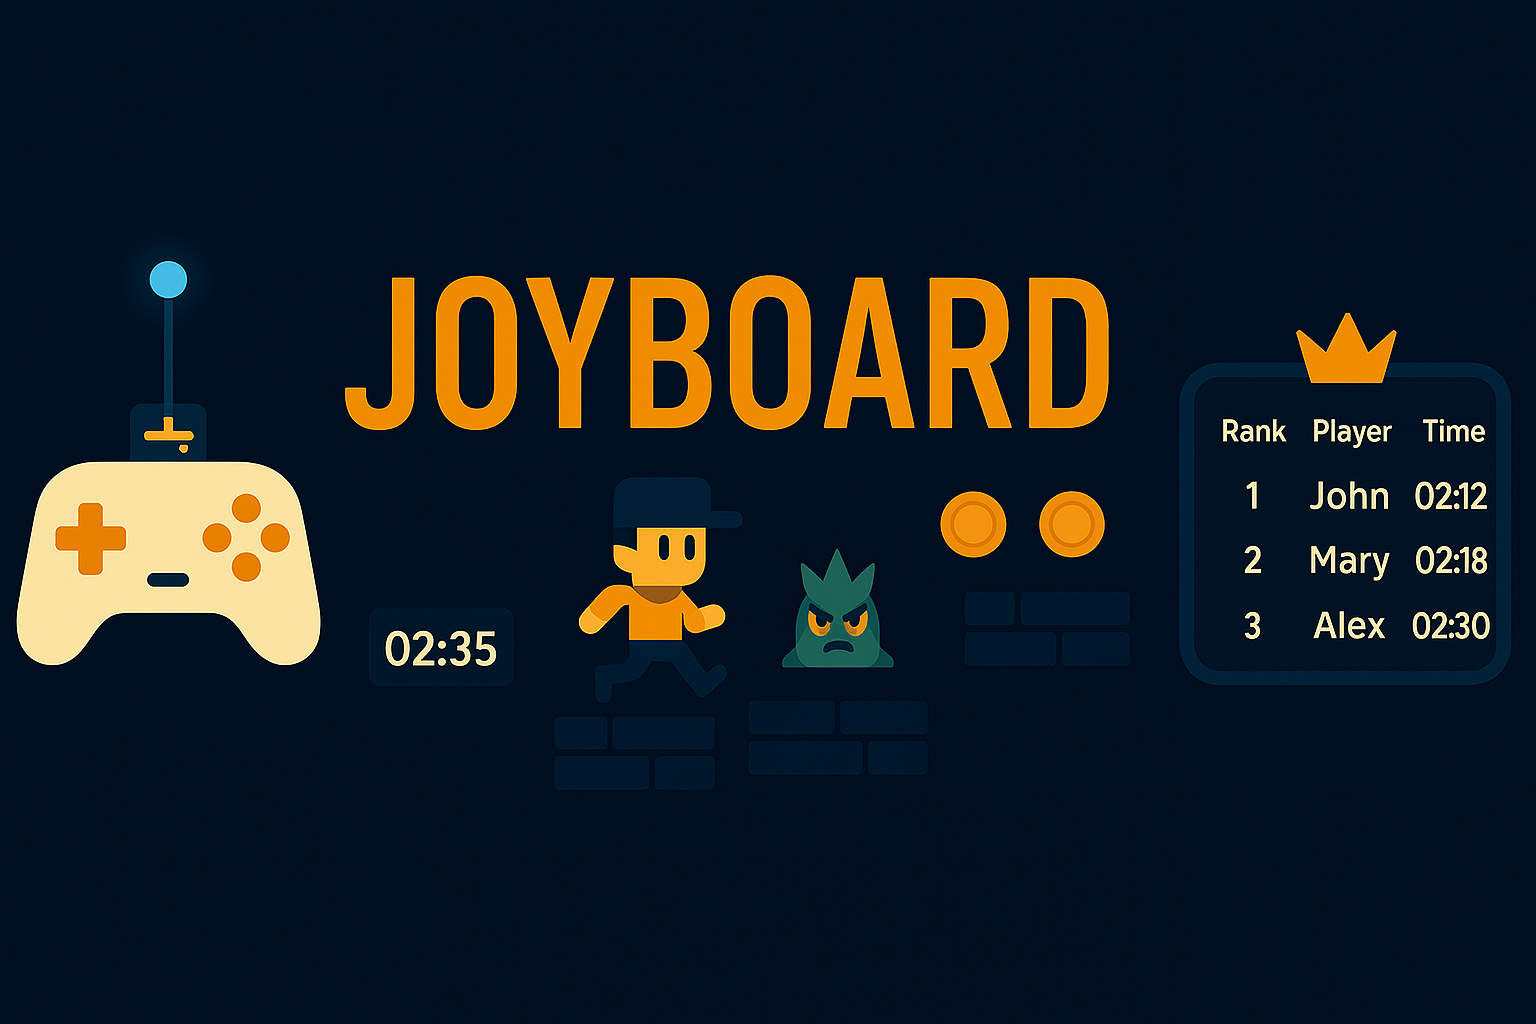
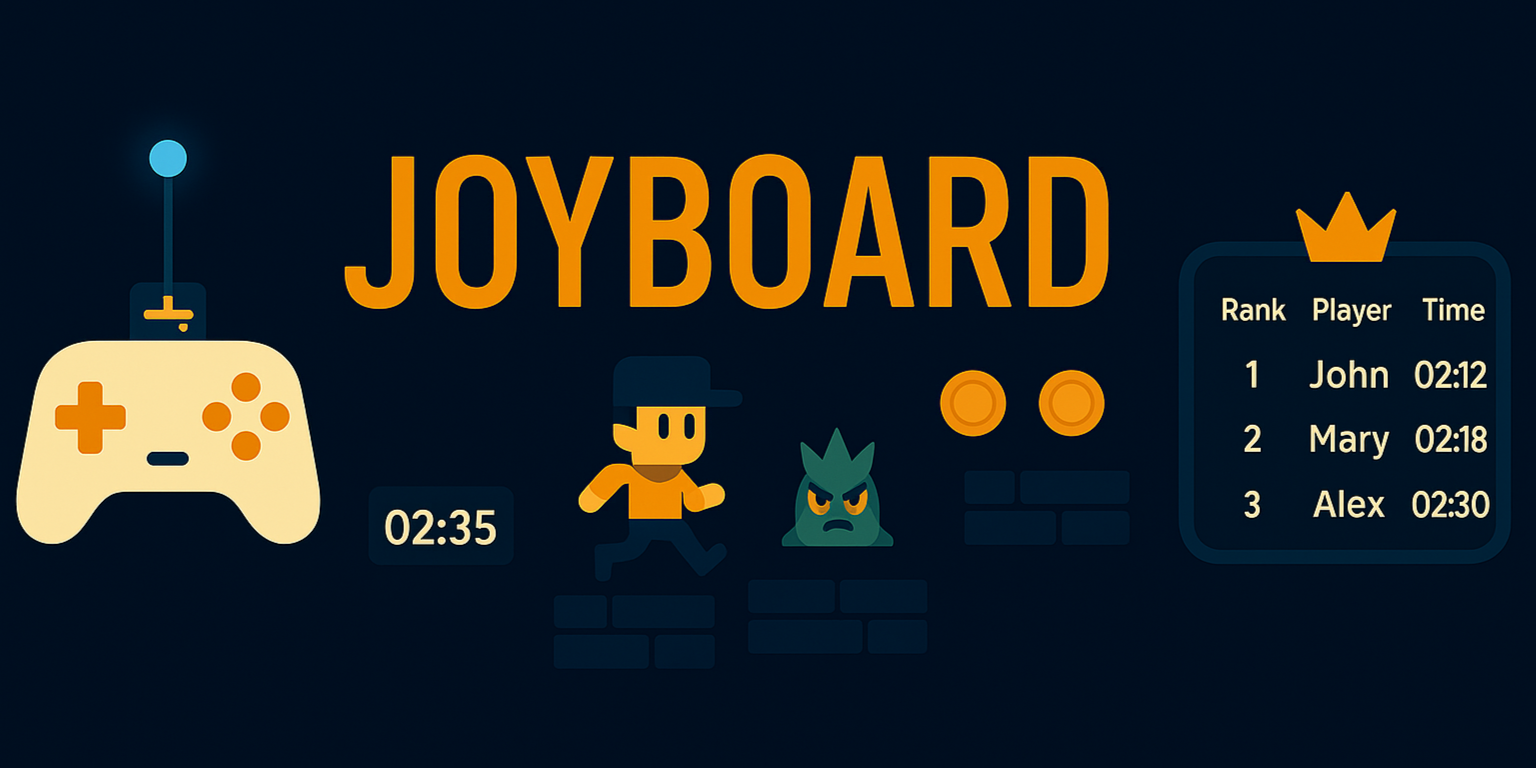
Few Changes

diff --git a/README.md b/README.md
@@ -1,15 +1,17 @@
 <p align="center">
 
   <!-- Banner Image -->
-  <img src="assets/Readme_Img/banner_3.png" alt="JOYBOARD Banner" width="100%" style="max-height:300px; object-fit:cover; border-radius:10px;" />
+  <img src="assets/Readme_Img/banner_4.png" alt="JOYBOARD Banner" width="100%" style="max-height:300px; object-fit:cover; border-radius:10px;" />
 
   <!-- Title -->
   <br>
-  <strong style="font-size:2.2rem;">JOYBOARD</strong>
+  <strong style="font-size:2.5rem;">JOYBOARD</strong>
   <br><br>
 
   <!-- Tagline -->
-  Where <strong>Gaming</strong> Meets <strong>Web</strong> & <strong>IoT</strong> — Play, Compete, and Connect.
+  <div align="center" style="font-size:1rem; color:#666; max-width:600px; margin:auto;">
+    Where <strong>Gaming</strong> Meets <strong>Web</strong> & <strong>IoT</strong> — Play, Compete, and Connect.
+  </div>
 
 </p>
 
